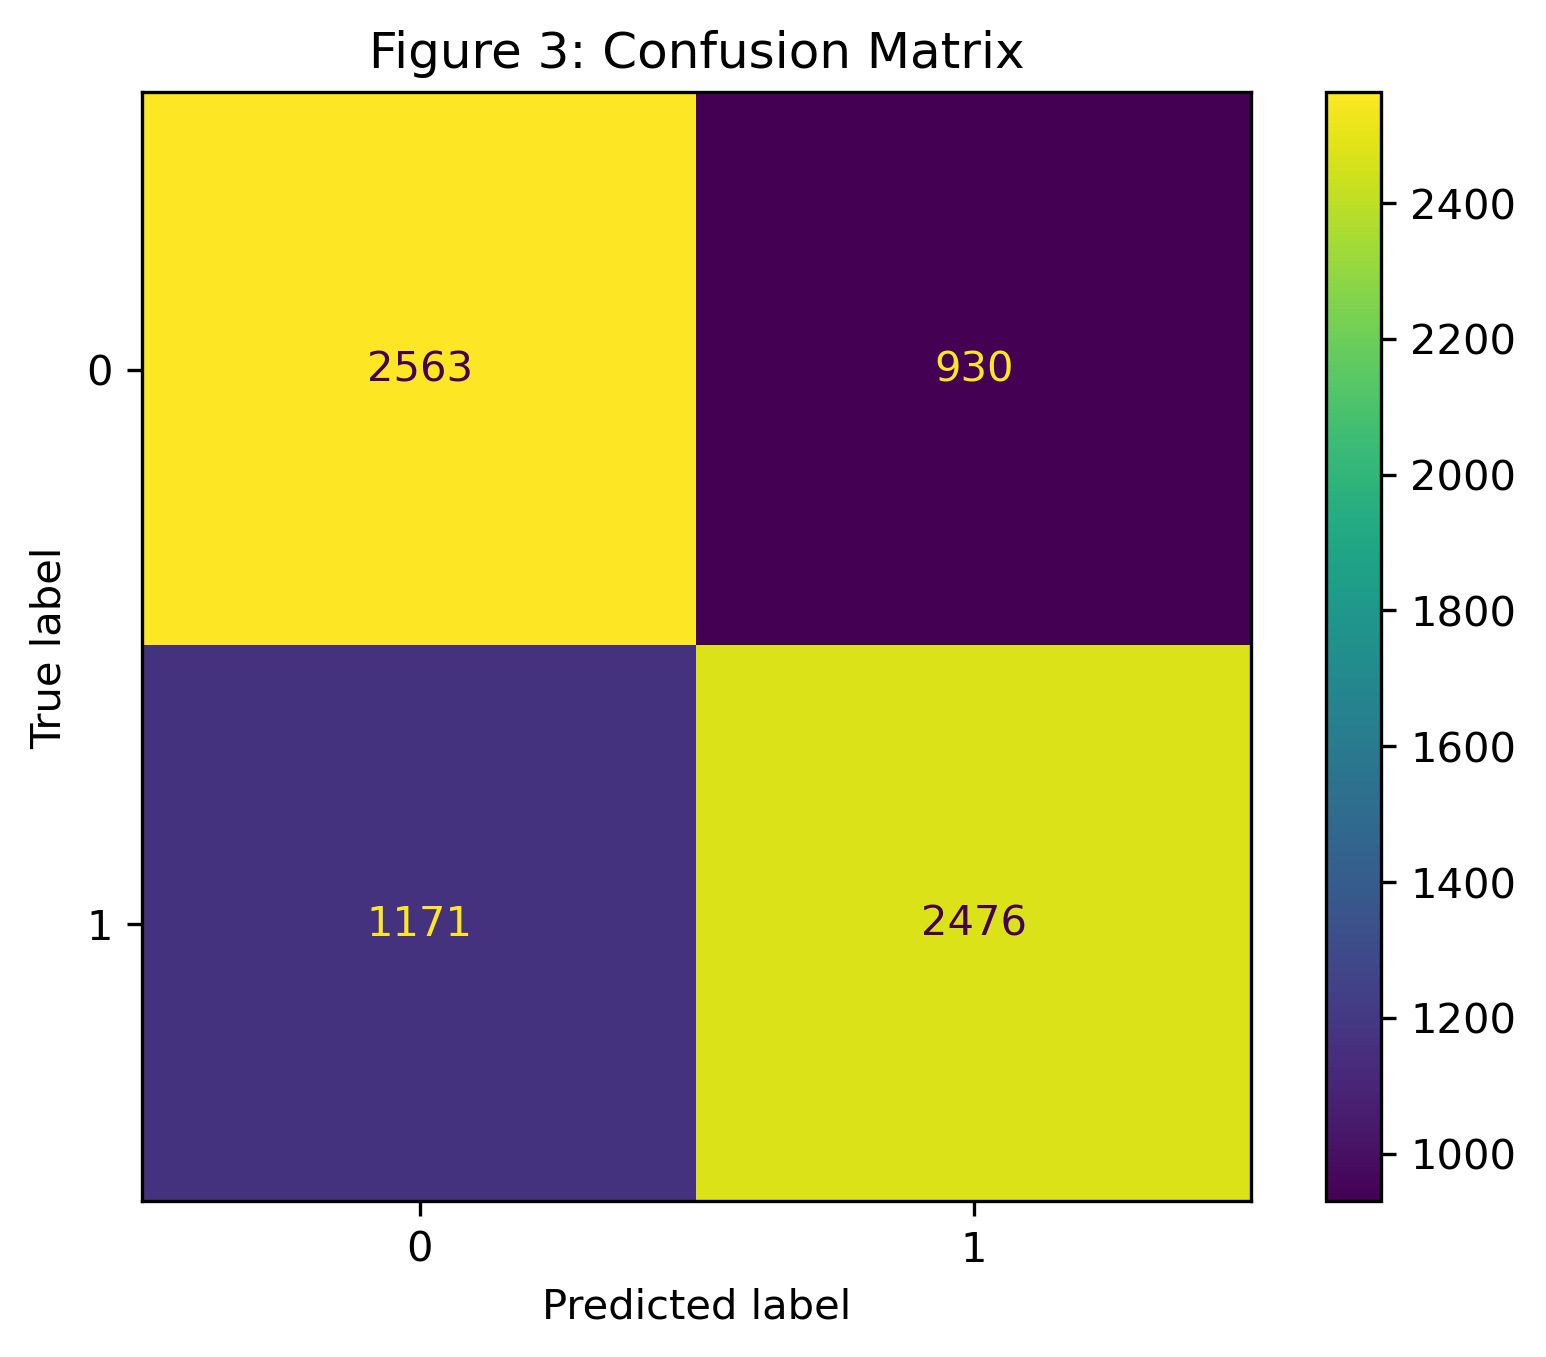
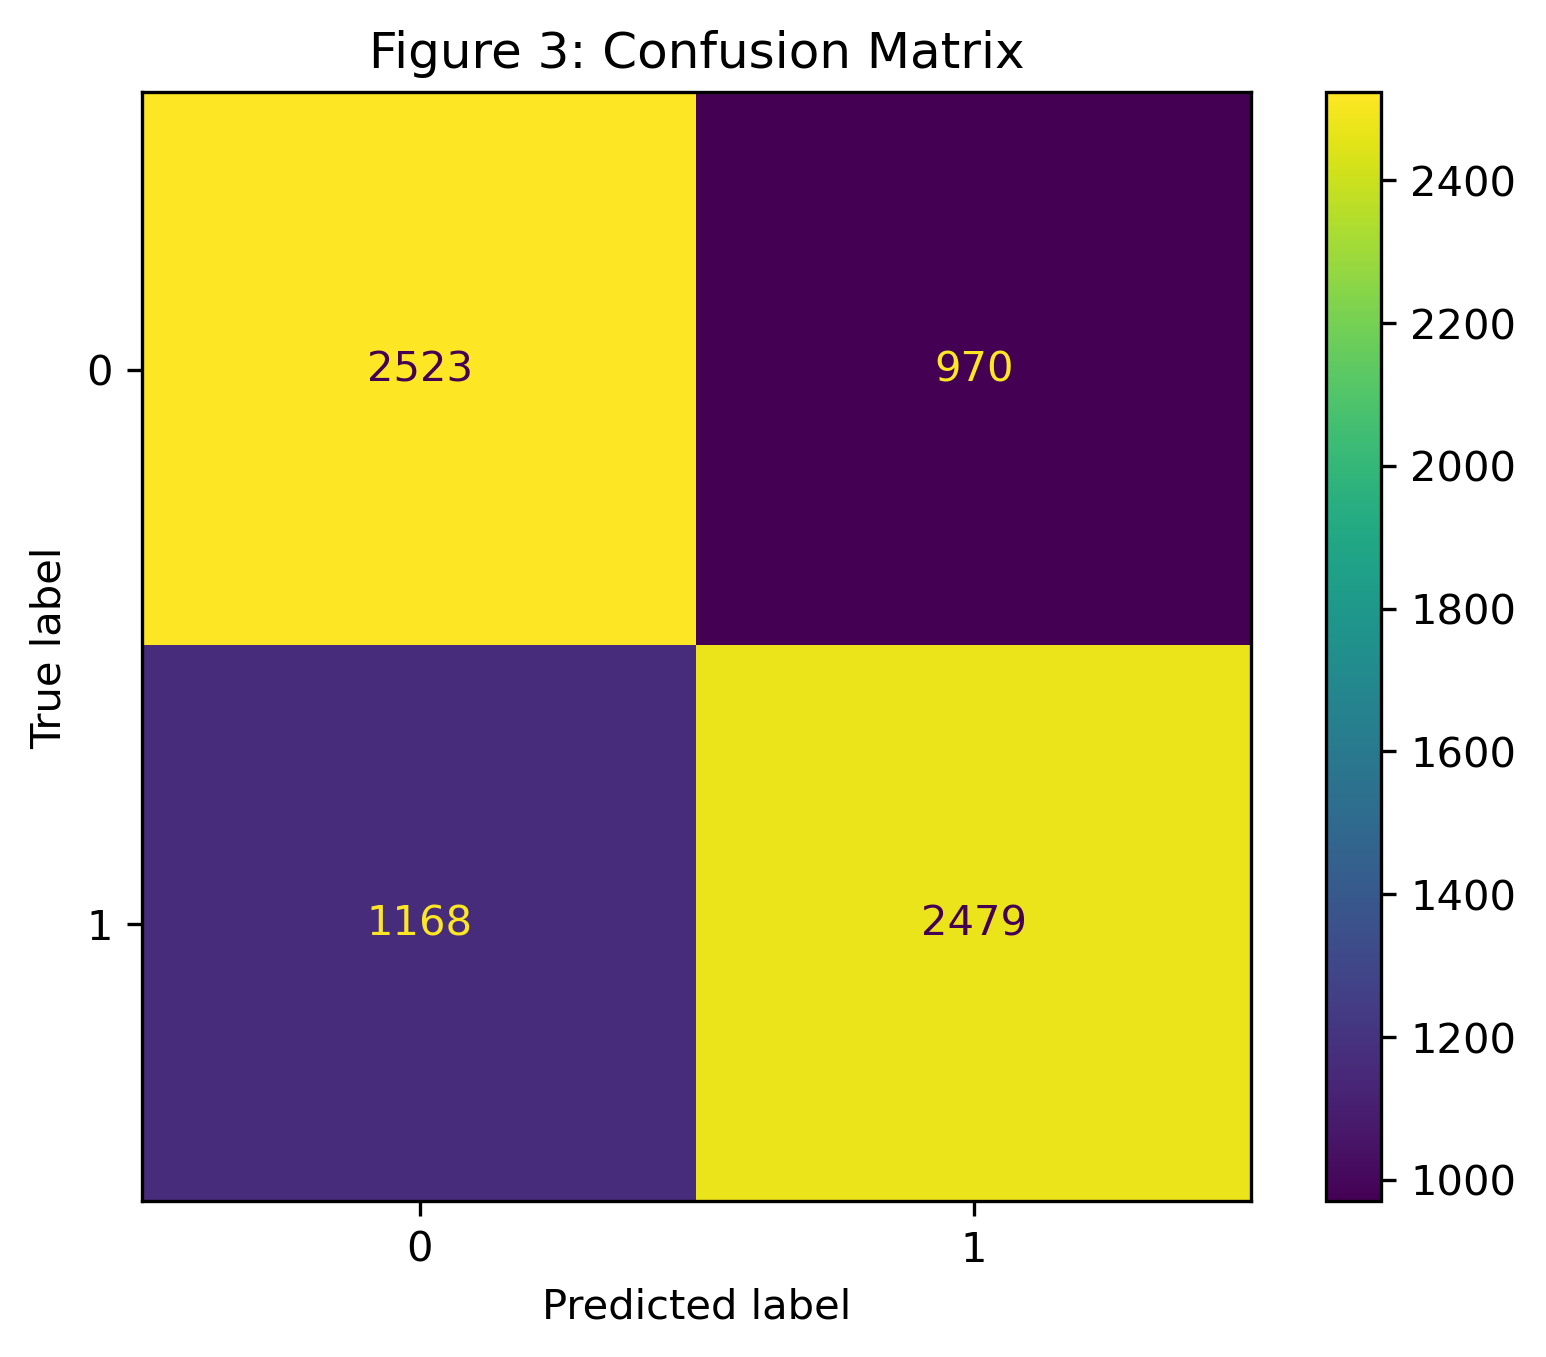
Update 04_model.py and add Quarto report files again

diff --git a/src/04_model.py b/src/04_model.py
@@ -1,55 +1,60 @@
 import click
 import pandas as pd
 import matplotlib.pyplot as plt
-from sklearn.linear_model import LogisticRegression
-from sklearn.metrics import accuracy_score, precision_score, recall_score, f1_score, ConfusionMatrixDisplay
+from sklearn.model_selection import train_test_split
 from sklearn.preprocessing import OneHotEncoder
 from sklearn.compose import ColumnTransformer
+from sklearn.linear_model import LogisticRegression
+from sklearn.metrics import accuracy_score, precision_score, recall_score, f1_score, ConfusionMatrixDisplay
+from sklearn.pipeline import Pipeline
 
 @click.command()
-@click.argument("x_train_file", type=str)
-@click.argument("x_test_file", type=str)
-@click.argument("y_train_file", type=str)
-@click.argument("y_test_file", type=str)
+@click.argument("input_data", type=str)
 @click.argument("output", type=str)
-def main(x_train_file, x_test_file, y_train_file, y_test_file, output):
+def main(input_data, output):
     """
-    Train a Logistic Regression model on preprocessed train/test CSVs,
-    encode categorical features, and save performance metrics and confusion matrix.
+    Train Logistic Regression on preprocessed data and save metrics + confusion matrix.
+    Expects a CSV with features and 'high_price' target column.
     """
+    # -------------------------------
     # Load data
-    X_train = pd.read_csv(x_train_file)
-    X_test = pd.read_csv(x_test_file)
-    y_train = pd.read_csv(y_train_file).squeeze()
-    y_test = pd.read_csv(y_test_file).squeeze()
-
-    print("[INFO] Data loaded successfully.")
-
-    # Identify numeric and categorical features
-    numeric_features = ["square_feet", "bathrooms"]
-    categorical_features = ["bedrooms", "state", "pets_allowed", "fee", "has_photo"]
-
-    # Preprocessing: OneHotEncode categorical features
+    # -------------------------------
+    df = pd.read_csv(input_data)
+    
+    # Split into features and target
+    X = df.drop(columns=["high_price", "price", "state_median_price"])
+    y = df["high_price"]
+    
+    # Split train/test
+    X_train, X_test, y_train, y_test = train_test_split(
+        X, y, test_size=0.2, stratify=y, random_state=123
+    )
+    
+    # Identify categorical and numeric features
+    numeric_features = X.select_dtypes(include=["int64", "float64"]).columns.tolist()
+    categorical_features = X.select_dtypes(include=["object"]).columns.tolist()
+    
+    # Preprocessing pipeline
     preprocessor = ColumnTransformer(
         transformers=[
-            ("num", "passthrough", numeric_features),
-            ("cat", OneHotEncoder(handle_unknown="ignore"), categorical_features)
-        ]
+            ("cat", OneHotEncoder(handle_unknown="ignore", sparse_output=False), categorical_features),
+        ],
+        remainder="passthrough"
     )
-
-    X_train_encoded = preprocessor.fit_transform(X_train)
-    X_test_encoded = preprocessor.transform(X_test)
-
-    print("[INFO] Data preprocessing complete.")
-
-    # Train Logistic Regression model
-    model = LogisticRegression(max_iter=1000)
-    model.fit(X_train_encoded, y_train)
-    y_pred = model.predict(X_test_encoded)
-
-    print("[INFO] Model training complete.")
-
-    # Collect performance metrics
+    
+    # Full pipeline
+    pipeline = Pipeline([
+        ("preprocessor", preprocessor),
+        ("model", LogisticRegression(max_iter=1000))
+    ])
+    
+    # Train model
+    pipeline.fit(X_train, y_train)
+    
+    # Predict
+    y_pred = pipeline.predict(X_test)
+    
+    # Metrics
     metrics = {
         "Accuracy": accuracy_score(y_test, y_pred),
         "Precision": precision_score(y_test, y_pred),
@@ -57,12 +62,10 @@ def main(x_train_file, x_test_file, y_train_file, y_test_file, output):
         "F1-score": f1_score(y_test, y_pred)
     }
     df_metrics = pd.DataFrame(metrics, index=["Logistic Regression"])
-
-    # Save metrics to CSV
     df_metrics.to_csv(f"{output}/logistic_regression_metrics.csv", index=True)
     print(f"[INFO] Metrics saved to: {output}/logistic_regression_metrics.csv")
-
-    # Plot and save confusion matrix
+    
+    # Confusion matrix
     ConfusionMatrixDisplay.from_predictions(y_test, y_pred)
     plt.title("Figure 3: Confusion Matrix")
     plt.savefig(f"{output}/confusion_matrix.png", dpi=300, bbox_inches="tight")

diff --git a/README.md b/README.md
@@ -37,7 +37,7 @@ python src/02_clean.py results/data.csv results
 
 python src/03_eda.py results/full_cleaned_data.csv results
 
-python src/04_model.py results/X_train.csv results/X_test.csv results/y_train.csv results/y_test.csv results
+python src/04_model.py results/full_cleaned_data.csv results
 
 
 quarto render notebooks/apartment_pricing_ml_analysis.qmd --to html
